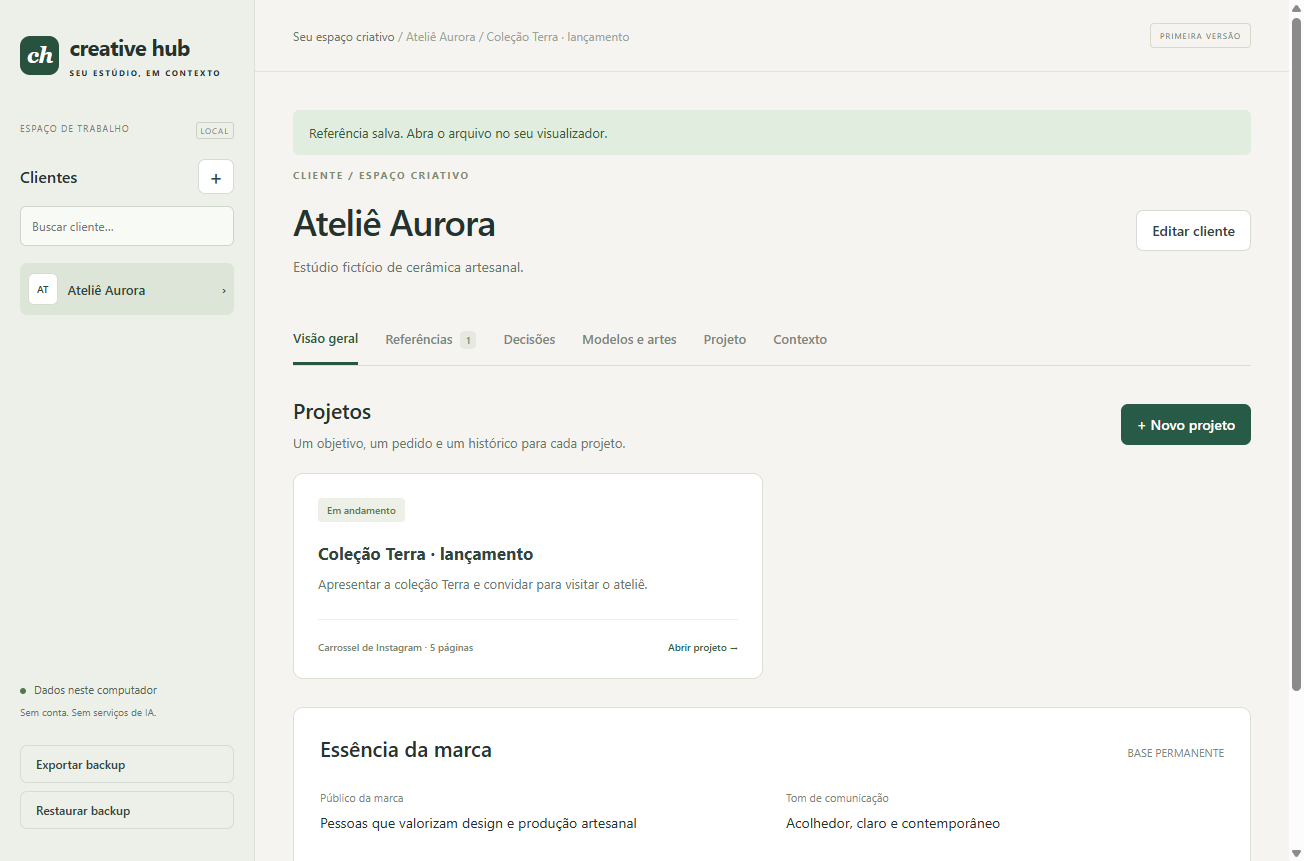
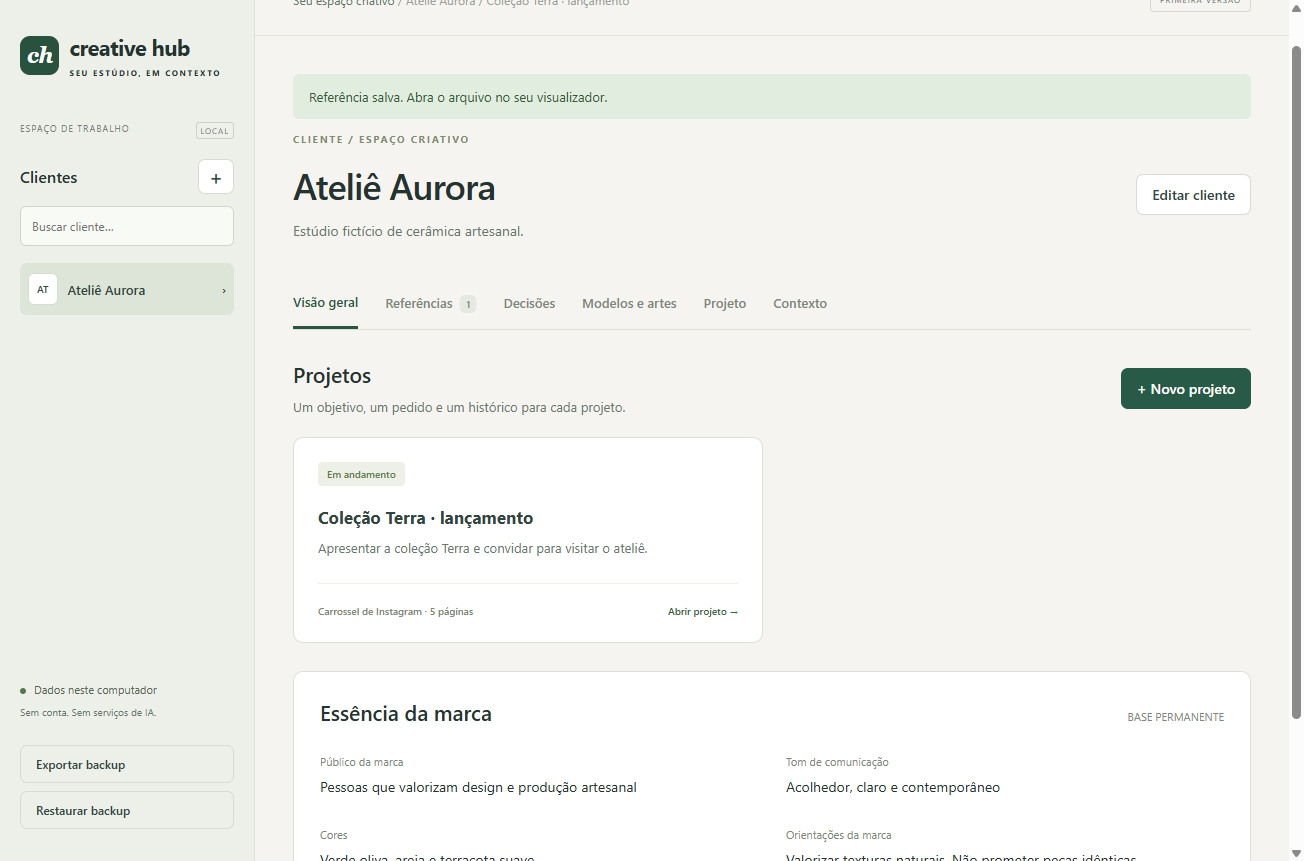
feat: scope references and preserve revision history

diff --git a/src/main.tsx b/src/main.tsx
@@ -58,6 +58,8 @@ function App() {
   const [contextOutput, setContextOutput] = useState<ContextOutput>("art");
   const [contextArtId, setContextArtId] = useState("");
   const [contextRevisionId, setContextRevisionId] = useState("");
+  const [referenceProjectId, setReferenceProjectId] = useState("");
+  const [referenceArtId, setReferenceArtId] = useState("");
   const [dirty, setDirty] = useState(false);
   const [preview, setPreview] = useState<string>();
   const [search, setSearch] = useState("");
@@ -73,8 +75,16 @@ function App() {
     data?.revisions
       .filter((item) => item.artId === contextArtId)
       .sort((a, b) => b.sequence - a.sequence) || [];
+  const referenceProjects =
+    data?.projects.filter((item) => item.clientId === clientId) || [];
+  const referenceArts =
+    data?.arts.filter((item) => item.projectId === referenceProjectId) || [];
   useEffect(() => {
     setContextOutput("art");
+  }, [clientId, campaignId]);
+  useEffect(() => {
+    setReferenceProjectId(campaignId);
+    setReferenceArtId("");
   }, [clientId, campaignId]);
   useEffect(() => {
     setContextArtId(
@@ -288,6 +298,11 @@ function App() {
         d.clientId === clientId && (!d.projectId || d.projectId === campaignId),
     ) || [];
   const refs = data?.references.filter((r) => r.clientId === clientId) || [];
+  const contextRefs = refs.filter(
+    (reference) =>
+      (!reference.projectId || reference.projectId === campaignId) &&
+      (!reference.artId || reference.artId === contextArtId),
+  );
   return (
     <div className="app">
       <aside className="sidebar">
@@ -564,7 +579,11 @@ function App() {
                       disabled={busy}
                       onClick={() =>
                         run(async () => {
-                          const next = await window.hub.attach(clientId);
+                          const next = await window.hub.attach(
+                            clientId,
+                            referenceProjectId || null,
+                            referenceArtId || null,
+                          );
                           if (next) {
                             setData(next);
                             setNotice(
@@ -576,6 +595,45 @@ function App() {
                     >
                       + Adicionar referências
                     </button>
+                  </div>
+                  <div className="form-grid">
+                    <label htmlFor="reference-project">
+                      Associar ao projeto
+                      <select
+                        id="reference-project"
+                        disabled={busy}
+                        value={referenceProjectId}
+                        onChange={(event) => {
+                          setReferenceProjectId(event.target.value);
+                          setReferenceArtId("");
+                        }}
+                      >
+                        <option value="">Somente ao cliente</option>
+                        {referenceProjects.map((project) => (
+                          <option key={project.id} value={project.id}>
+                            {project.title}
+                          </option>
+                        ))}
+                      </select>
+                    </label>
+                    <label htmlFor="reference-art">
+                      Associar à arte
+                      <select
+                        id="reference-art"
+                        disabled={busy || !referenceProjectId}
+                        value={referenceArtId}
+                        onChange={(event) =>
+                          setReferenceArtId(event.target.value)
+                        }
+                      >
+                        <option value="">Todas as artes do projeto</option>
+                        {referenceArts.map((art) => (
+                          <option key={art.id} value={art.id}>
+                            {art.title}
+                          </option>
+                        ))}
+                      </select>
+                    </label>
                   </div>
                   <div className="reference-grid">
                     {refs.map((r) => (
@@ -596,6 +654,13 @@ function App() {
                           <div className="pdf">PDF</div>
                         )}
                         <h3>{r.name}</h3>
+                        <small>
+                          {r.artId
+                            ? `Arte: ${data.arts.find((item) => item.id === r.artId)?.title || "não encontrada"}`
+                            : r.projectId
+                              ? `Projeto: ${data.projects.find((item) => item.id === r.projectId)?.title || "não encontrado"}`
+                              : "Referência geral do cliente"}
+                        </small>
                         <small>{date(r.createdAt)}</small>
                         <button
                           disabled={busy}
@@ -941,11 +1006,13 @@ function App() {
                         Copiar não envia as referências para outra ferramenta.
                       </p>
                       <ul>
-                        {refs.map((r) => (
+                        {contextRefs.map((r) => (
                           <li key={r.id}>{r.name}</li>
                         ))}
                       </ul>
-                      {!refs.length && <p>Nenhuma referência cadastrada.</p>}
+                      {!contextRefs.length && (
+                        <p>Nenhuma referência para esta arte.</p>
+                      )}
                       <p>
                         Ao alterar decisões ou a marca, atualize o texto e
                         revise novamente.
@@ -1398,6 +1465,18 @@ function StructurePanel({
               <article className="decision" key={revision.id}>
                 <h3>Revisão {revision.sequence}</h3>
                 <p>{revision.instructions || "Sem instruções adicionais."}</p>
+                {!!revision.preserveElements.length && (
+                  <p>
+                    <strong>Preservar:</strong>{" "}
+                    {revision.preserveElements.join(", ")}
+                  </p>
+                )}
+                {!!revision.modifyElements.length && (
+                  <p>
+                    <strong>Modificar:</strong>{" "}
+                    {revision.modifyElements.join(", ")}
+                  </p>
+                )}
                 <small>
                   {revision.approvedAt
                     ? `Aprovada em ${date(revision.approvedAt)}`

diff --git a/src/types.ts b/src/types.ts
@@ -97,7 +97,11 @@ declare global {
         revisionId: string | null,
         output?: ContextOutput,
       ): Promise<string>;
-      attach(id: string): Promise<Workspace | null>;
+      attach(
+        clientId: string,
+        projectId?: string | null,
+        artId?: string | null,
+      ): Promise<Workspace | null>;
       saveReference(id: string): Promise<boolean>;
       copy(text: string): Promise<boolean>;
       export(): Promise<boolean>;

diff --git a/docs/QA.md b/docs/QA.md
@@ -1,5 +1,14 @@
 # Relatório de QA — 29/10/2026
 
+## Etapa 5 — referências e histórico — 11/11/2026
+
+- Fluxo Electron específico cria referência vinculada à arte, apaga o arquivo de origem, cria três revisões, deriva a terceira da primeira e aprova somente a segunda.
+- Depois de encerrar e reabrir o aplicativo, as revisões 1, 2 e 3 continuam visíveis, a revisão 2 mantém `approvedAt`, e instruções, elementos preservados e modificados permanecem identificados.
+- A imagem incorporada continua visível e o JSON confirma os relacionamentos `clientId`, `projectId` e `artId`. A validação Java existente rejeita relações órfãs antes de salvar.
+- O painel de contexto filtra a lista de anexos pelo projeto e arte selecionados, evitando sugerir manualmente uma referência de outro trabalho do mesmo cliente.
+- `npm run check` aprovado: JUnit 19/19, Node/ponte/runtime 12/12 e Electron 11/11 aplicáveis; 1 teste exclusivo do executável empacotado ignorado nesta execução de desenvolvimento.
+- Dados fictícios em perfil temporário; nenhum arquivo ou base pessoal foi usado.
+
 ## Etapa 4 — interface e experiência — 11/11/2026
 
 - Novo fluxo Electron cobre cliente → projeto → modelo → arte → revisão → contexto → rascunho, usando Java e armazenamento reais em perfil temporário fictício.

diff --git a/docs/ESTADO-PROJETO.md b/docs/ESTADO-PROJETO.md
@@ -1,5 +1,13 @@
 # Estado do projeto
 
+## Evolução Cliente → Projeto → Arte → Revisão — Etapa 5
+
+- Referências podem ser associadas ao cliente inteiro, a um projeto ou a uma arte. A interface identifica o escopo e o contexto lista somente arquivos aplicáveis à arte selecionada.
+- Os bytes continuam incorporados ao JSON local. Remover ou mover o arquivo original depois do cadastro não quebra a referência; arquivo ausente antes da importação produz erro sem gravação parcial.
+- Cada revisão registra instruções, elementos preservados, elementos modificados, origem, data e aprovação. A interface passou a exibir esses elementos no histórico.
+- Revisões continuam imutáveis: criar a partir de versão antiga acrescenta uma nova sequência e aprovar altera somente o campo de aprovação da revisão escolhida.
+- O cenário automatizado criou três revisões, aprovou a segunda, reiniciou o Electron e confirmou as três sequências e a aprovação correta. A referência por arte também foi recuperada depois de o original ser apagado.
+
 ## Evolução Cliente → Projeto → Arte → Revisão — Etapa 4
 
 - O fluxo real da interface permite cadastrar cliente, criar projeto, criar e escolher modelo, criar arte, registrar revisão, gerar contexto e salvar o novo rascunho.
